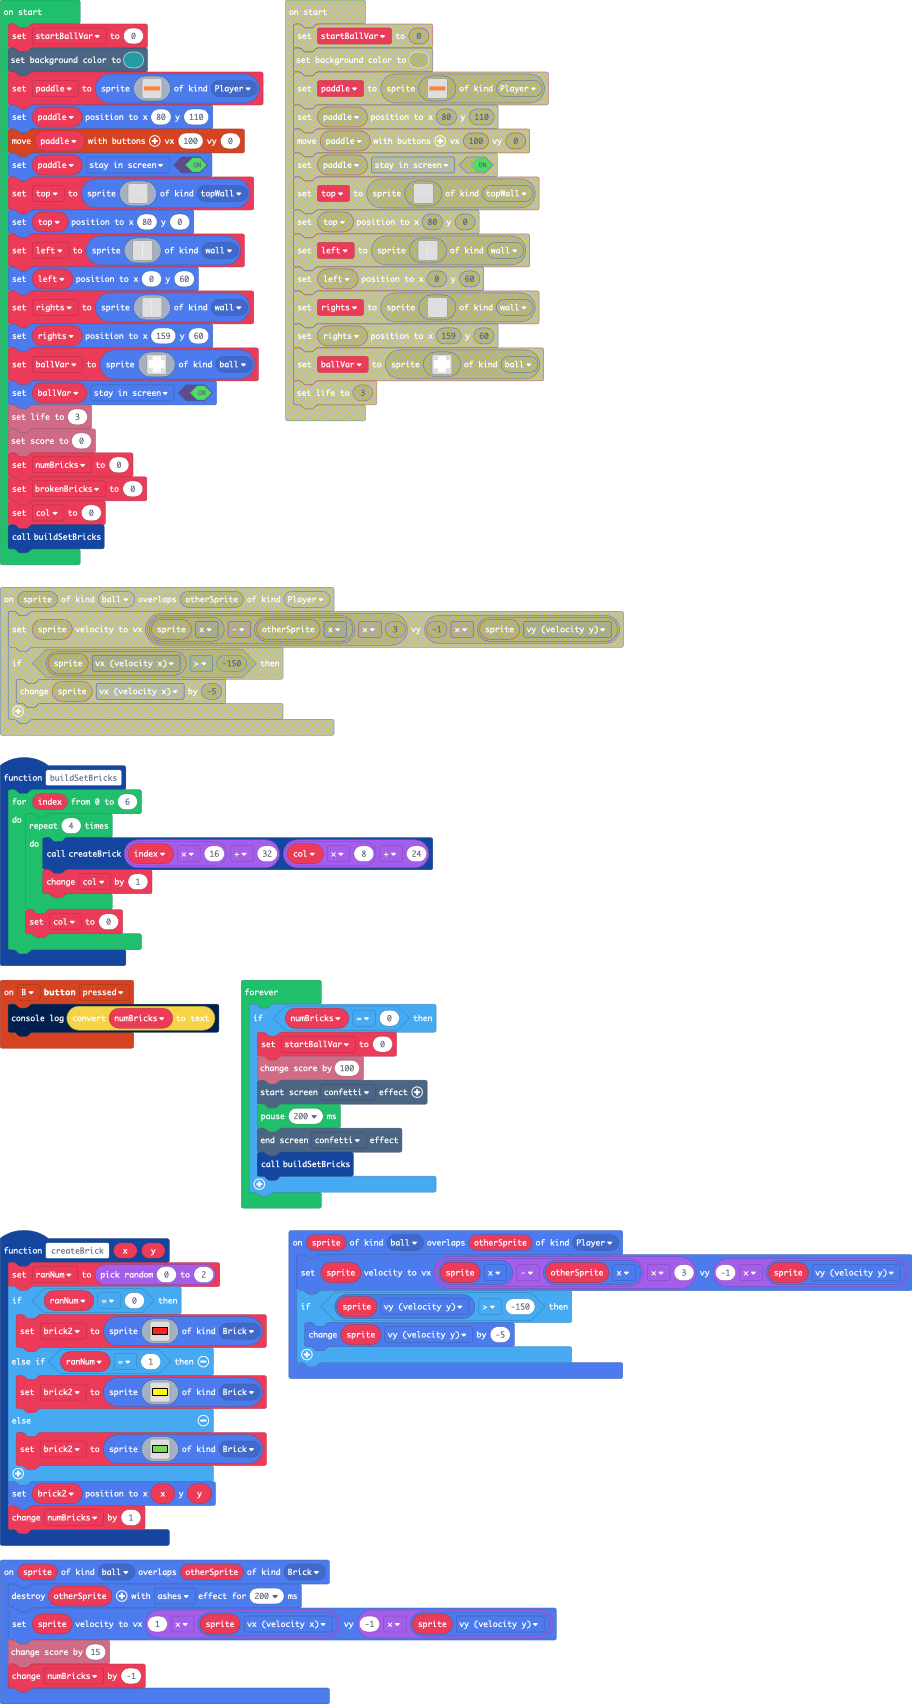
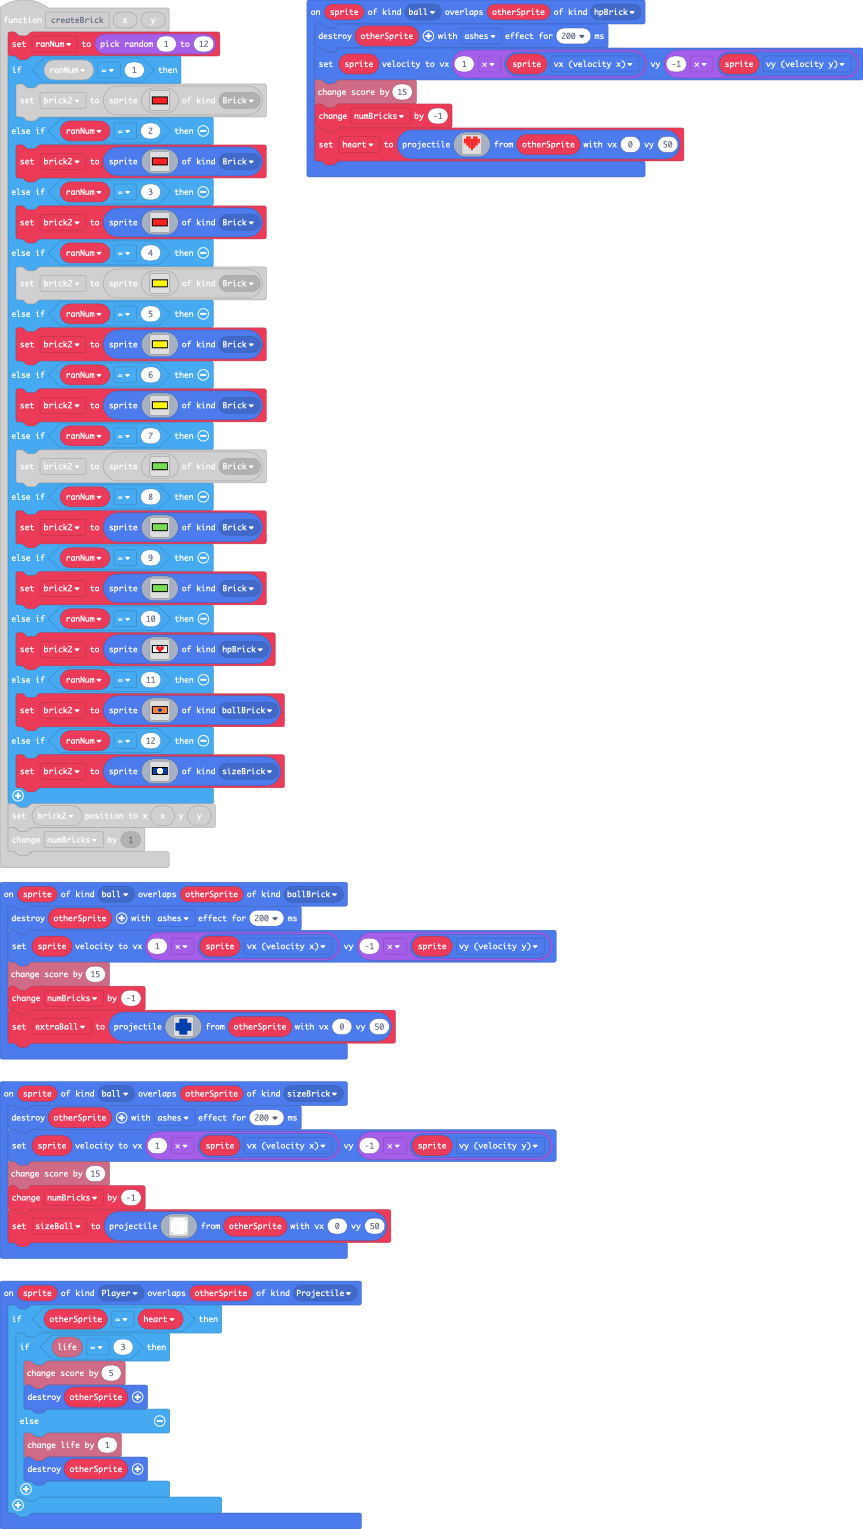
adding power ups

diff --git a/main.ts b/main.ts
@@ -3,6 +3,9 @@ namespace SpriteKind {
     export const ball = SpriteKind.create()
     export const topWall = SpriteKind.create()
     export const Brick = SpriteKind.create()
+    export const hpBrick = SpriteKind.create()
+    export const ballBrick = SpriteKind.create()
+    export const sizeBrick = SpriteKind.create()
 }
 sprites.onOverlap(SpriteKind.ball, SpriteKind.Brick, function (sprite, otherSprite) {
     otherSprite.destroy(effects.ashes, 200)
@@ -18,6 +21,47 @@ sprites.onOverlap(SpriteKind.ball, SpriteKind.topWall, function (sprite, otherSp
 })
 controller.B.onEvent(ControllerButtonEvent.Pressed, function () {
     console.log(convertToText(numBricks))
+})
+sprites.onOverlap(SpriteKind.Player, SpriteKind.Projectile, function (sprite, otherSprite) {
+    if (otherSprite == heart) {
+        if (info.life() == 3) {
+            info.changeScoreBy(5)
+            otherSprite.destroy()
+        } else {
+            info.changeLifeBy(1)
+            otherSprite.destroy()
+        }
+    }
+})
+sprites.onOverlap(SpriteKind.ball, SpriteKind.sizeBrick, function (sprite, otherSprite) {
+    otherSprite.destroy(effects.ashes, 200)
+    sprite.setVelocity(1 * sprite.vx, -1 * sprite.vy)
+    info.changeScoreBy(15)
+    numBricks += -1
+    sizeBall = sprites.createProjectileFromSprite(img`
+. 1 1 1 1 1 . 
+1 1 1 1 1 1 1 
+1 1 1 1 1 1 1 
+1 1 1 1 1 1 1 
+1 1 1 1 1 1 1 
+1 1 1 1 1 1 1 
+. 1 1 1 1 1 . 
+`, otherSprite, 0, 50)
+})
+sprites.onOverlap(SpriteKind.ball, SpriteKind.hpBrick, function (sprite, otherSprite) {
+    otherSprite.destroy(effects.ashes, 200)
+    sprite.setVelocity(1 * sprite.vx, -1 * sprite.vy)
+    info.changeScoreBy(15)
+    numBricks += -1
+    heart = sprites.createProjectileFromSprite(img`
+. 2 2 . 2 2 . 
+2 2 2 2 2 2 2 
+2 2 2 2 2 2 2 
+. 2 2 2 2 2 . 
+. . 2 2 2 . . 
+. . . 2 . . . 
+. . . . . . . 
+`, otherSprite, 0, 50)
 })
 sprites.onOverlap(SpriteKind.ball, SpriteKind.Player, function (sprite, otherSprite) {
     sprite.setVelocity((sprite.x - otherSprite.x) * 3, -1 * sprite.vy)
@@ -35,8 +79,8 @@ function buildSetBricks () {
     }
 }
 function createBrick (x: number, y: number) {
-    ranNum = Math.randomRange(0, 2)
-    if (ranNum == 0) {
+    ranNum = Math.randomRange(1, 12)
+    if (ranNum == 1) {
         brick2 = sprites.create(img`
 f f f f f f f f f f f f f f f f 
 f 2 2 2 2 2 2 2 2 2 2 2 2 2 2 f 
@@ -47,7 +91,29 @@ f 2 2 2 2 2 2 2 2 2 2 2 2 2 2 f
 f 2 2 2 2 2 2 2 2 2 2 2 2 2 2 f 
 f f f f f f f f f f f f f f f f 
 `, SpriteKind.Brick)
-    } else if (ranNum == 1) {
+    } else if (ranNum == 2) {
+        brick2 = sprites.create(img`
+f f f f f f f f f f f f f f f f 
+f 2 2 2 2 2 2 2 2 2 2 2 2 2 2 f 
+f 2 2 2 2 2 2 2 2 2 2 2 2 2 2 f 
+f 2 2 2 2 2 2 2 2 2 2 2 2 2 2 f 
+f 2 2 2 2 2 2 2 2 2 2 2 2 2 2 f 
+f 2 2 2 2 2 2 2 2 2 2 2 2 2 2 f 
+f 2 2 2 2 2 2 2 2 2 2 2 2 2 2 f 
+f f f f f f f f f f f f f f f f 
+`, SpriteKind.Brick)
+    } else if (ranNum == 3) {
+        brick2 = sprites.create(img`
+f f f f f f f f f f f f f f f f 
+f 2 2 2 2 2 2 2 2 2 2 2 2 2 2 f 
+f 2 2 2 2 2 2 2 2 2 2 2 2 2 2 f 
+f 2 2 2 2 2 2 2 2 2 2 2 2 2 2 f 
+f 2 2 2 2 2 2 2 2 2 2 2 2 2 2 f 
+f 2 2 2 2 2 2 2 2 2 2 2 2 2 2 f 
+f 2 2 2 2 2 2 2 2 2 2 2 2 2 2 f 
+f f f f f f f f f f f f f f f f 
+`, SpriteKind.Brick)
+    } else if (ranNum == 4) {
         brick2 = sprites.create(img`
 f f f f f f f f f f f f f f f f 
 f 5 5 5 5 5 5 5 5 5 5 5 5 5 5 f 
@@ -58,7 +124,29 @@ f 5 5 5 5 5 5 5 5 5 5 5 5 5 5 f
 f 5 5 5 5 5 5 5 5 5 5 5 5 5 5 f 
 f f f f f f f f f f f f f f f f 
 `, SpriteKind.Brick)
-    } else {
+    } else if (ranNum == 5) {
+        brick2 = sprites.create(img`
+f f f f f f f f f f f f f f f f 
+f 5 5 5 5 5 5 5 5 5 5 5 5 5 5 f 
+f 5 5 5 5 5 5 5 5 5 5 5 5 5 5 f 
+f 5 5 5 5 5 5 5 5 5 5 5 5 5 5 f 
+f 5 5 5 5 5 5 5 5 5 5 5 5 5 5 f 
+f 5 5 5 5 5 5 5 5 5 5 5 5 5 5 f 
+f 5 5 5 5 5 5 5 5 5 5 5 5 5 5 f 
+f f f f f f f f f f f f f f f f 
+`, SpriteKind.Brick)
+    } else if (ranNum == 6) {
+        brick2 = sprites.create(img`
+f f f f f f f f f f f f f f f f 
+f 5 5 5 5 5 5 5 5 5 5 5 5 5 5 f 
+f 5 5 5 5 5 5 5 5 5 5 5 5 5 5 f 
+f 5 5 5 5 5 5 5 5 5 5 5 5 5 5 f 
+f 5 5 5 5 5 5 5 5 5 5 5 5 5 5 f 
+f 5 5 5 5 5 5 5 5 5 5 5 5 5 5 f 
+f 5 5 5 5 5 5 5 5 5 5 5 5 5 5 f 
+f f f f f f f f f f f f f f f f 
+`, SpriteKind.Brick)
+    } else if (ranNum == 7) {
         brick2 = sprites.create(img`
 f f f f f f f f f f f f f f f f 
 f 7 7 7 7 7 7 7 7 7 7 7 7 7 7 f 
@@ -69,12 +157,82 @@ f 7 7 7 7 7 7 7 7 7 7 7 7 7 7 f
 f 7 7 7 7 7 7 7 7 7 7 7 7 7 7 f 
 f f f f f f f f f f f f f f f f 
 `, SpriteKind.Brick)
+    } else if (ranNum == 8) {
+        brick2 = sprites.create(img`
+f f f f f f f f f f f f f f f f 
+f 7 7 7 7 7 7 7 7 7 7 7 7 7 7 f 
+f 7 7 7 7 7 7 7 7 7 7 7 7 7 7 f 
+f 7 7 7 7 7 7 7 7 7 7 7 7 7 7 f 
+f 7 7 7 7 7 7 7 7 7 7 7 7 7 7 f 
+f 7 7 7 7 7 7 7 7 7 7 7 7 7 7 f 
+f 7 7 7 7 7 7 7 7 7 7 7 7 7 7 f 
+f f f f f f f f f f f f f f f f 
+`, SpriteKind.Brick)
+    } else if (ranNum == 9) {
+        brick2 = sprites.create(img`
+f f f f f f f f f f f f f f f f 
+f 7 7 7 7 7 7 7 7 7 7 7 7 7 7 f 
+f 7 7 7 7 7 7 7 7 7 7 7 7 7 7 f 
+f 7 7 7 7 7 7 7 7 7 7 7 7 7 7 f 
+f 7 7 7 7 7 7 7 7 7 7 7 7 7 7 f 
+f 7 7 7 7 7 7 7 7 7 7 7 7 7 7 f 
+f 7 7 7 7 7 7 7 7 7 7 7 7 7 7 f 
+f f f f f f f f f f f f f f f f 
+`, SpriteKind.Brick)
+    } else if (ranNum == 10) {
+        brick2 = sprites.create(img`
+f f f f f f f f f f f f f f f f 
+f 1 1 1 1 2 2 1 1 2 2 1 1 1 1 f 
+f 1 1 1 2 2 2 2 2 2 2 2 1 1 1 f 
+f 1 1 1 2 2 2 2 2 2 2 2 1 1 1 f 
+f 1 1 1 1 2 2 2 2 2 2 1 1 1 1 f 
+f 1 1 1 1 1 2 2 2 2 1 1 1 1 1 f 
+f 1 1 1 1 1 1 2 2 1 1 1 1 1 1 f 
+f f f f f f f f f f f f f f f f 
+`, SpriteKind.hpBrick)
+    } else if (ranNum == 11) {
+        brick2 = sprites.create(img`
+f f f f f f f f f f f f f f f f 
+f 4 4 4 4 4 4 4 4 4 4 4 4 4 4 f 
+f 4 4 4 4 4 4 8 8 4 4 4 4 4 4 f 
+f 4 4 4 4 4 8 8 8 8 4 4 4 4 4 f 
+f 4 4 4 4 4 8 8 8 8 4 4 4 4 4 f 
+f 4 4 4 4 4 4 8 8 4 4 4 4 4 4 f 
+f 4 4 4 4 4 4 4 4 4 4 4 4 4 4 f 
+f f f f f f f f f f f f f f f f 
+`, SpriteKind.ballBrick)
+    } else if (ranNum == 12) {
+        brick2 = sprites.create(img`
+f f f f f f f f f f f f f f f f 
+f 8 8 8 8 8 1 1 1 1 8 8 8 8 8 f 
+f 8 8 8 8 1 1 1 1 1 1 8 8 8 8 f 
+f 8 8 8 8 1 1 1 1 1 1 8 8 8 8 f 
+f 8 8 8 8 1 1 1 1 1 1 8 8 8 8 f 
+f 8 8 8 8 1 1 1 1 1 1 8 8 8 8 f 
+f 8 8 8 8 8 1 1 1 1 8 8 8 8 8 f 
+f f f f f f f f f f f f f f f f 
+`, SpriteKind.sizeBrick)
     }
     brick2.setPosition(x, y)
     numBricks += 1
 }
+sprites.onOverlap(SpriteKind.ball, SpriteKind.ballBrick, function (sprite, otherSprite) {
+    otherSprite.destroy(effects.ashes, 200)
+    sprite.setVelocity(1 * sprite.vx, -1 * sprite.vy)
+    info.changeScoreBy(15)
+    numBricks += -1
+    extraBall = sprites.createProjectileFromSprite(img`
+. 8 8 . 
+8 8 8 8 
+8 8 8 8 
+. 8 8 . 
+`, otherSprite, 0, 50)
+})
+let extraBall: Sprite = null
 let brick2: Sprite = null
 let ranNum = 0
+let sizeBall: Sprite = null
+let heart: Sprite = null
 let col = 0
 let numBricks = 0
 let startBallVar = 0
